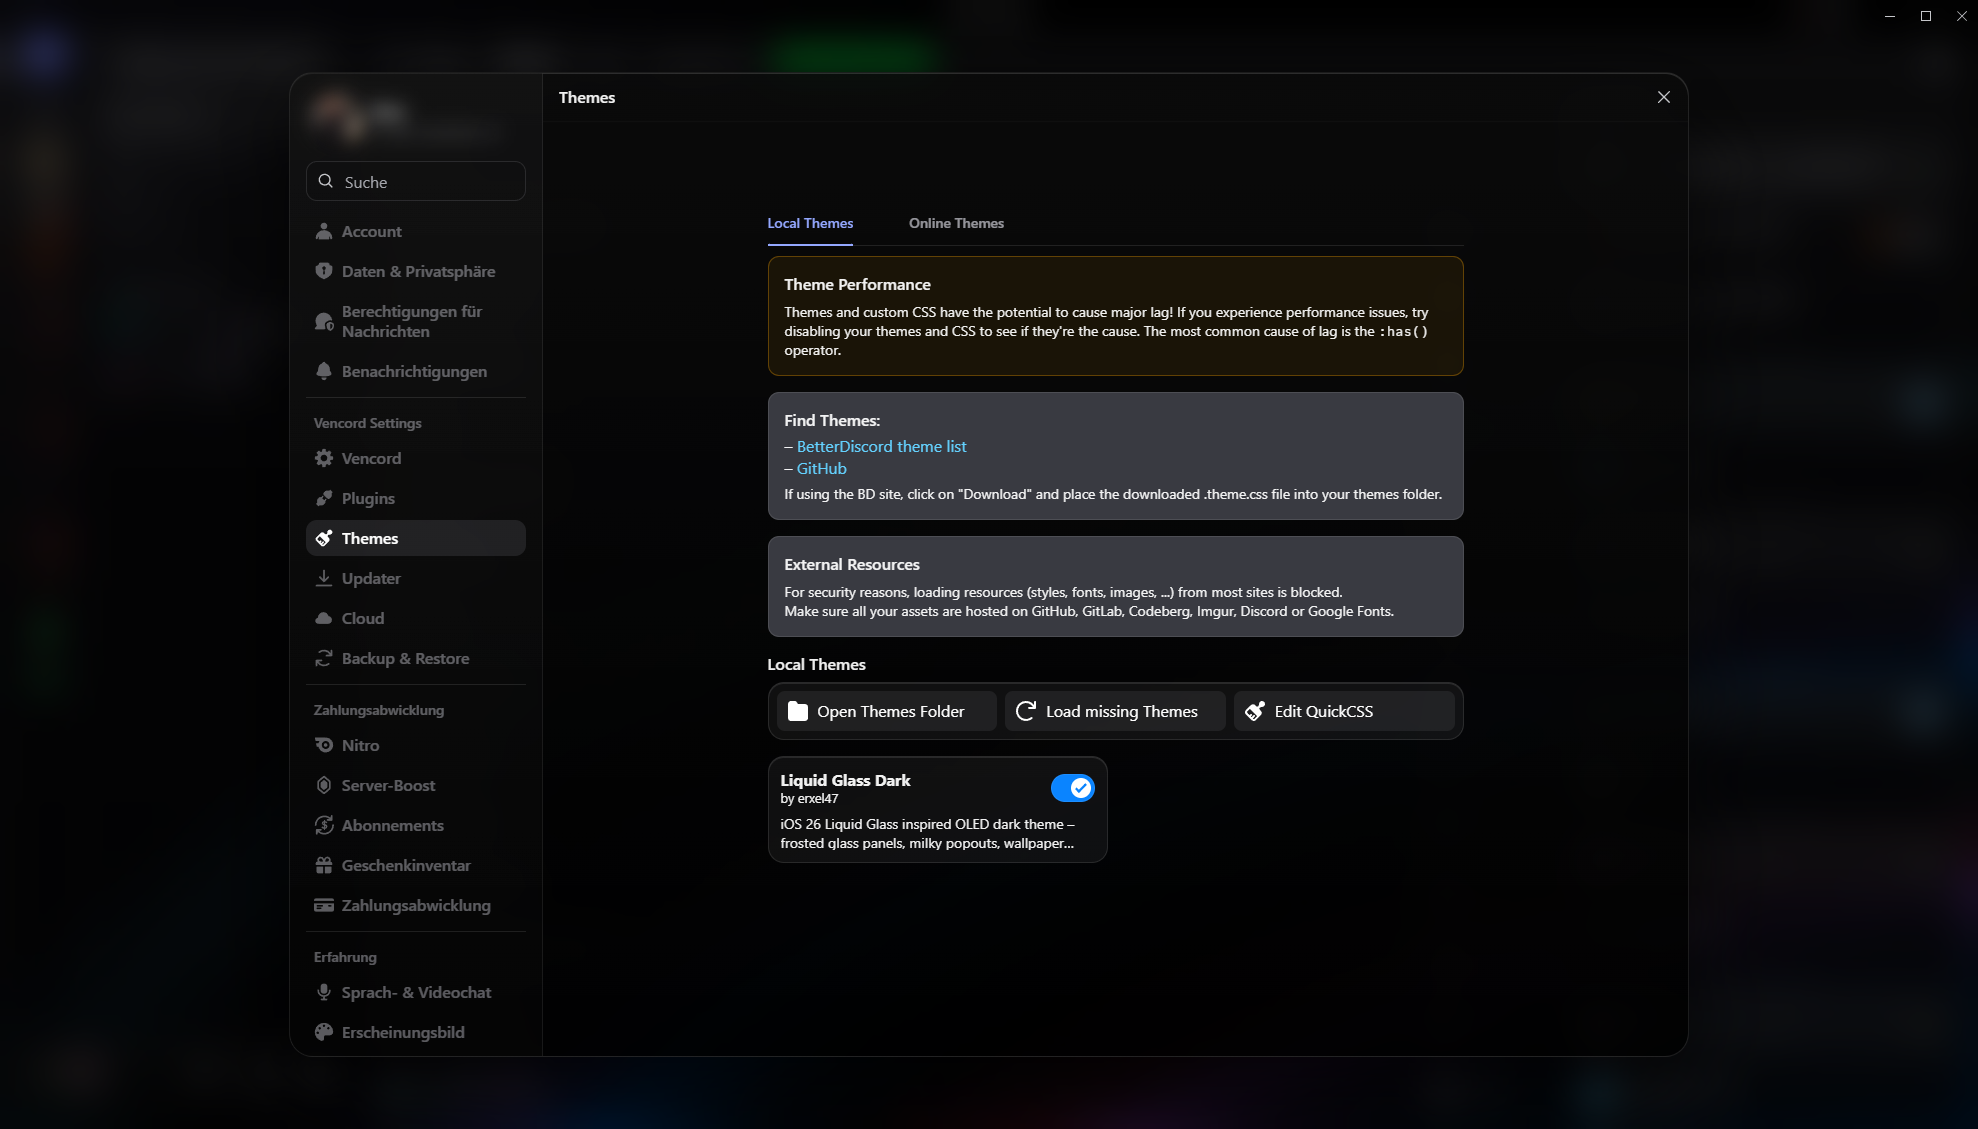
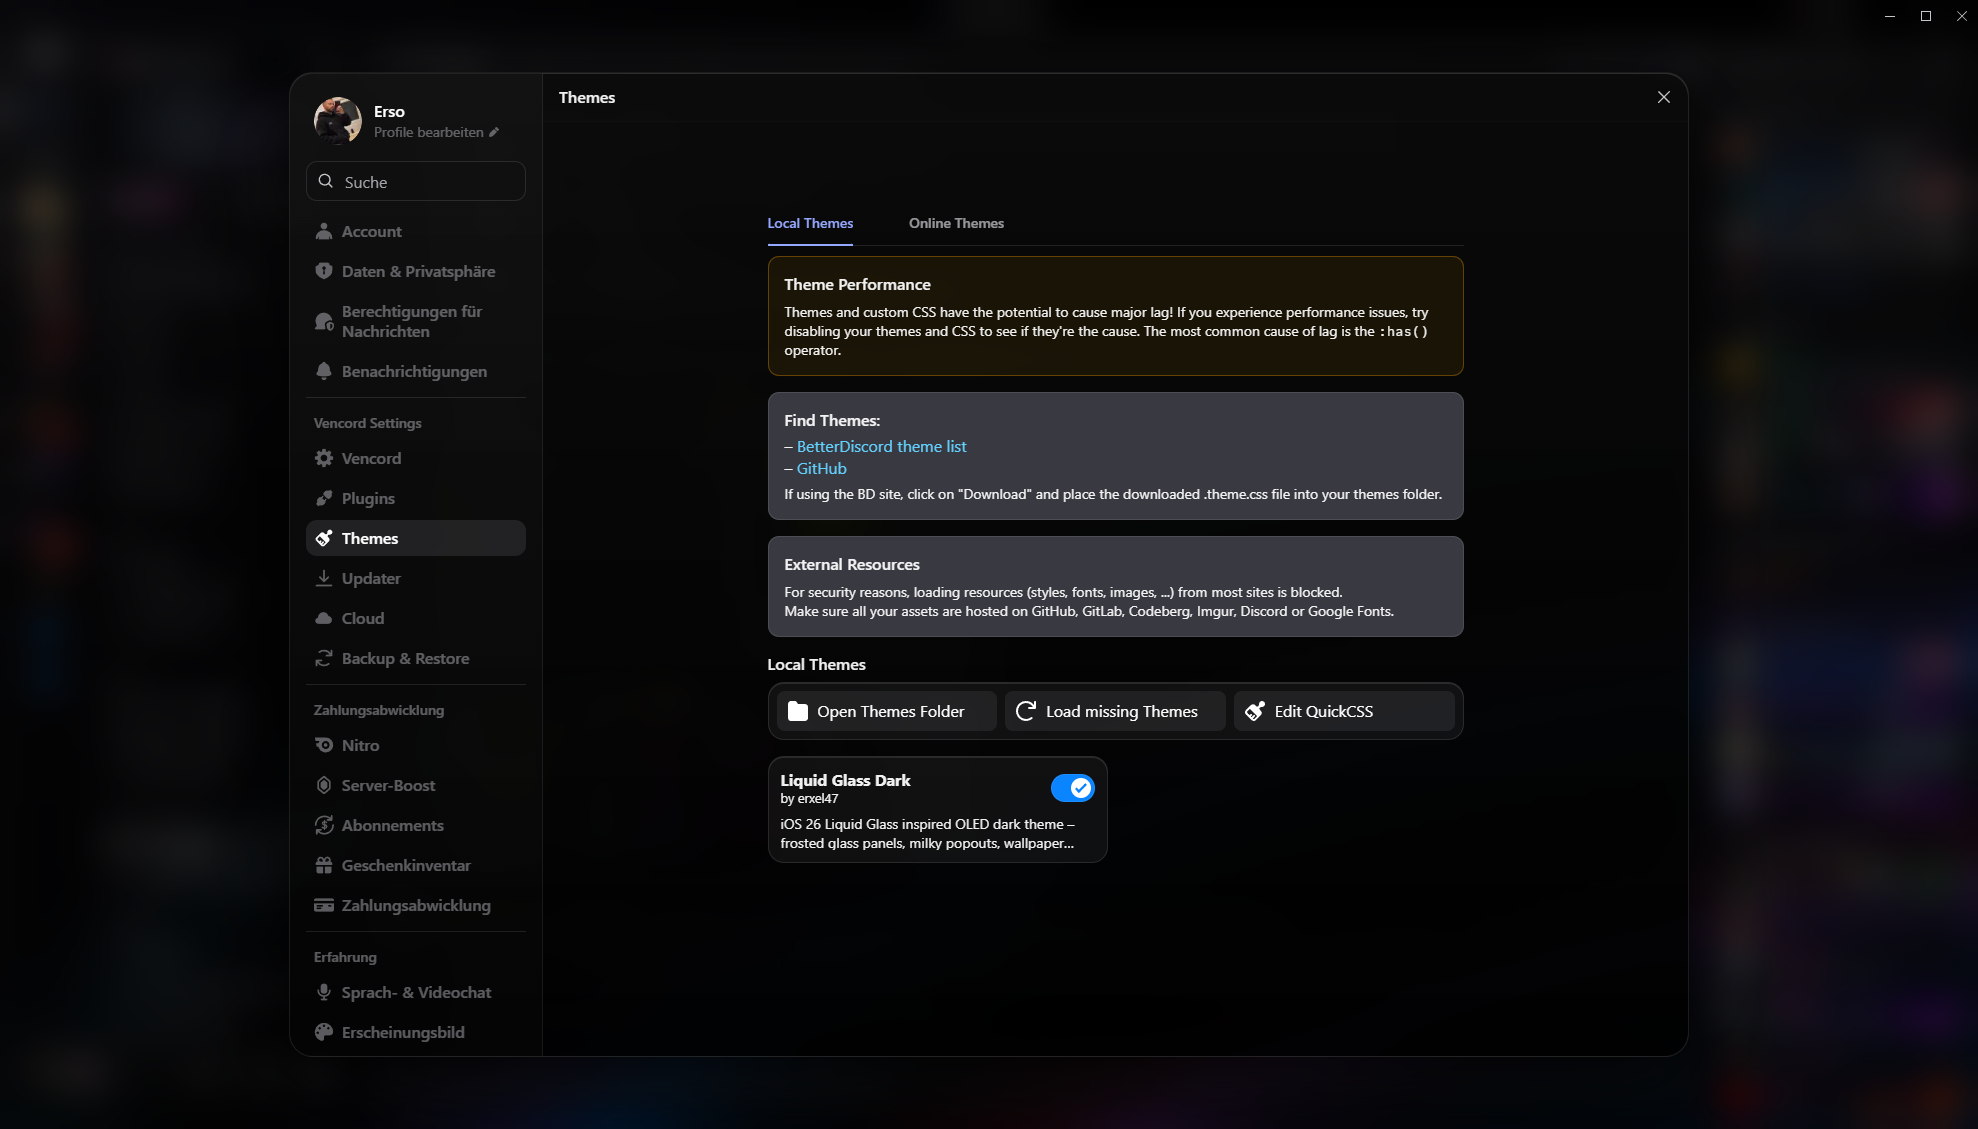
Replace screenshots with shots from the BetterDiscord server

diff --git a/README.md b/README.md
@@ -4,8 +4,15 @@ An **iOS 26 Liquid Glass** inspired theme for Discord: OLED black, frosted glass
 
 Works with **Vencord** and **BetterDiscord**. Tested with Vencord.
 
-![Home](screenshots/home.png)
+![Theme releases](screenshots/theme-releases.png)
+
+| Chat | Forum |
+|---|---|
+| ![Chat](screenshots/chat.png) | ![Forum](screenshots/forum.png) |
+
 ![Settings](screenshots/settings.png)
+
+<sub>Screenshots taken in the official BetterDiscord server.</sub>
 
 ## Features
 
